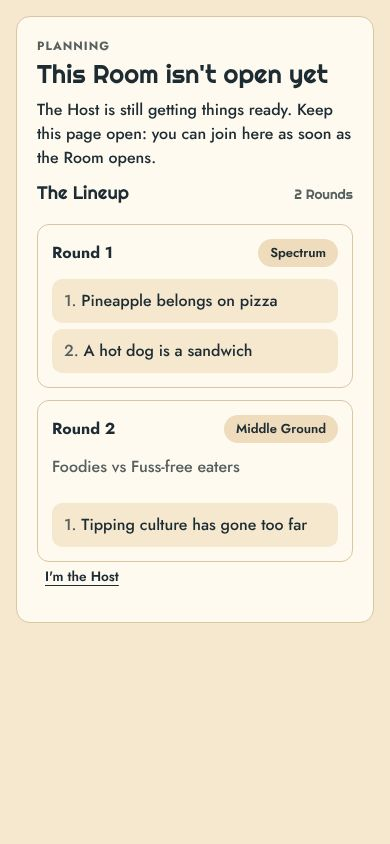
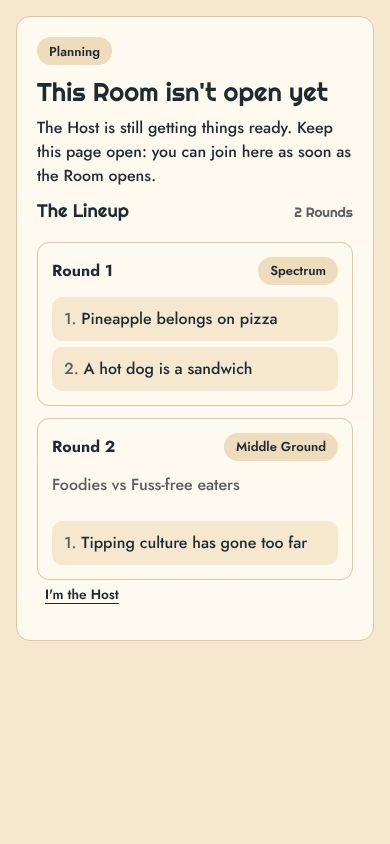
Outline the You tag and make Planning and Ended status tags
"You" gets a neutral muted outline (.dr-tag--outline) so it stays visible
on your own raised Waiting Room row. The Planning and Ended eyebrows become
plain status tags to match Live; only Live uses the spark. Re-shot the
affected screenshots and added the Host's Planning card and the Ended card.

Claude-Session: https://claude.ai/code/session_01UNdU23N1C1M5JepCuR5KAg

Changed region(s): [[0.0308, 0.0308, 0.9538, 0.7701], [0.0923, 0.4621, 0.1231, 0.4929]]

diff --git a/src/pages/RoomPage.vue b/src/pages/RoomPage.vue
@@ -126,7 +126,7 @@ function claimHostWithPin(pin: string) {
     <!-- Ended: everyone, whatever their role, sees the Recap -->
     <template v-if="view.phase === 'ended'">
       <section class="card">
-        <p class="eyebrow">Ended</p>
+        <p><span class="dr-tag">Ended</span></p>
         <h1>This Room has ended</h1>
         <p>The Recap stays here until {{ expiresOn }}. Download it to keep it.</p>
         <p v-if="view.you.role === 'visitor' && !hostFormOpen">
@@ -145,7 +145,7 @@ function claimHostWithPin(pin: string) {
     <!-- Host -->
     <template v-else-if="view.you.role === 'host'">
       <section v-if="view.phase === 'planning'" class="card">
-        <p class="eyebrow">Planning</p>
+        <p><span class="dr-tag">Planning</span></p>
         <h1>Your Room isn't open yet</h1>
         <p>Open it when you're ready for people to join.</p>
         <button class="primary" type="button" @click="send({ type: 'open-room' })">
@@ -326,7 +326,7 @@ function claimHostWithPin(pin: string) {
         />
       </template>
       <template v-else-if="view.phase === 'planning'">
-        <p class="eyebrow">Planning</p>
+        <p><span class="dr-tag">Planning</span></p>
         <h1>This Room isn't open yet</h1>
         <p>
           The Host is still getting things ready. Keep this page open: you can join here as soon as

diff --git a/src/styles/components/tag.css b/src/styles/components/tag.css
@@ -7,7 +7,8 @@
  *   .dr-tag--spicy       ▲ Spicy: a triangle as well as the colour
  *   .dr-tag--host        mustard fill (a highlight, not the spark)
  *   .dr-tag--cohost      mustard outline
- *   .dr-tag--spectator   muted outline: Spectator, Sitting out
+ *   .dr-tag--spectator   muted outline, muted text: Spectator, Sitting out
+ *   .dr-tag--outline     muted outline, ink text: You
  *   .dr-tag--live        ● Live: the spark, one of the status pills hard rule 2 allows
  *
  * Long text truncates on one line: wrap it in .dr-tag__text and put the full text in `title`.
@@ -83,6 +84,12 @@
   background: transparent;
   box-shadow: inset 0 0 0 1.5px var(--muted);
   color: var(--muted);
+}
+
+/* "You": a neutral outline, so it still reads on your own `raised` row. Not in the spec; decided in PR #68. */
+.dr-tag--outline {
+  background: transparent;
+  box-shadow: inset 0 0 0 1.5px var(--muted);
 }
 
 .dr-tag--live {

diff --git a/src/components/WaitingRoomList.vue b/src/components/WaitingRoomList.vue
@@ -69,7 +69,7 @@ const canRemove = (person: WaitingRoomPerson) =>
           Host
         </span>
         <span v-if="person.isCoHost" class="dr-tag dr-tag--cohost">Co-Host</span>
-        <span v-if="person.id === youId" class="dr-tag">You</span>
+        <span v-if="person.id === youId" class="dr-tag dr-tag--outline">You</span>
         <span v-if="canManage" class="actions">
           <button type="button" class="link" @click="startRename(person)">Rename</button>
           <template v-if="isHost && canBeCoHosts && !person.isHost">
